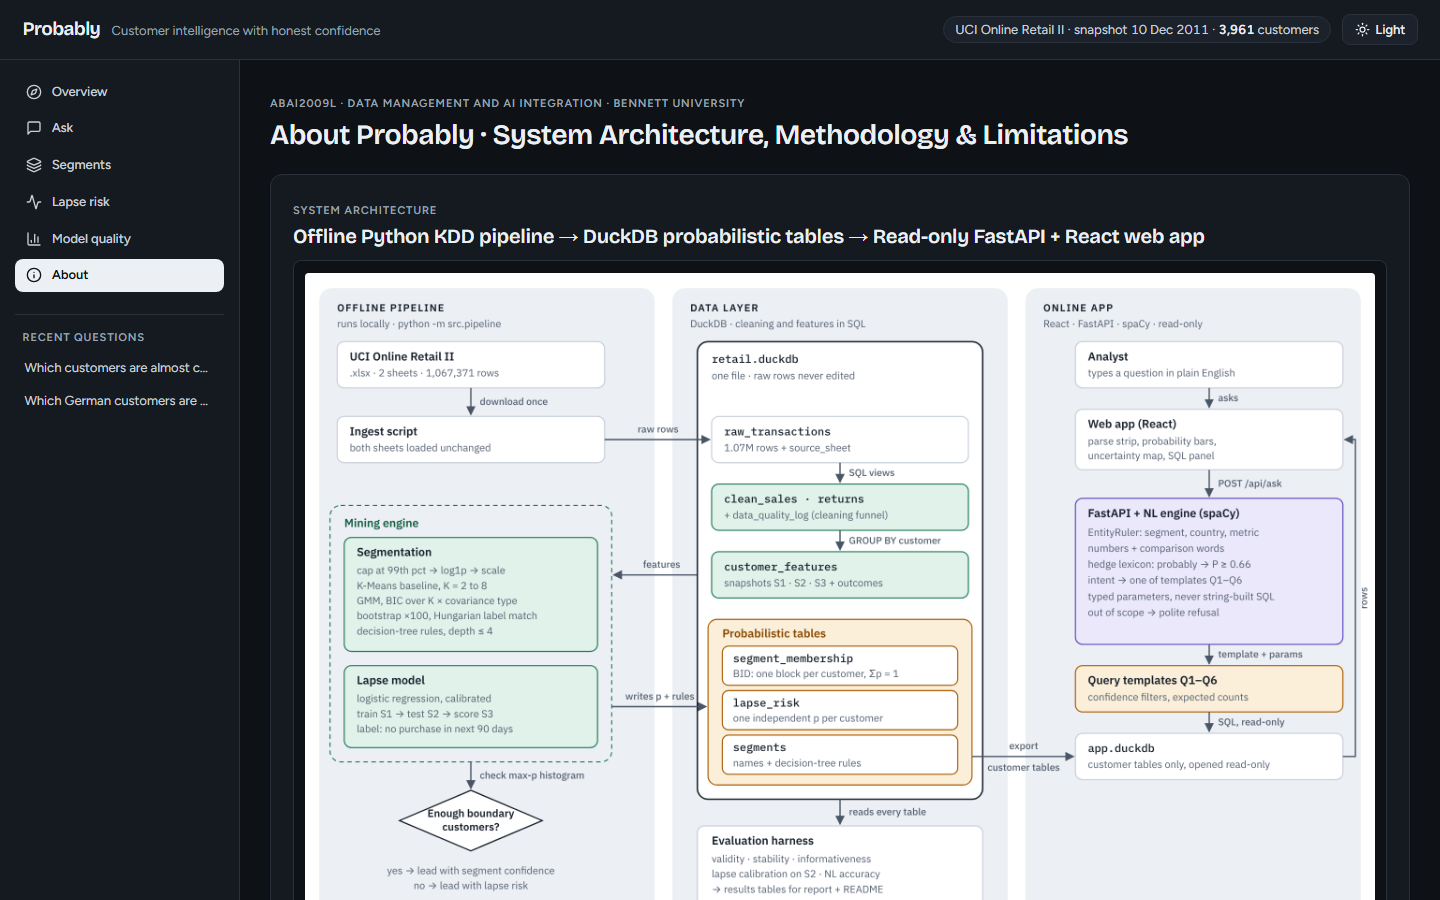
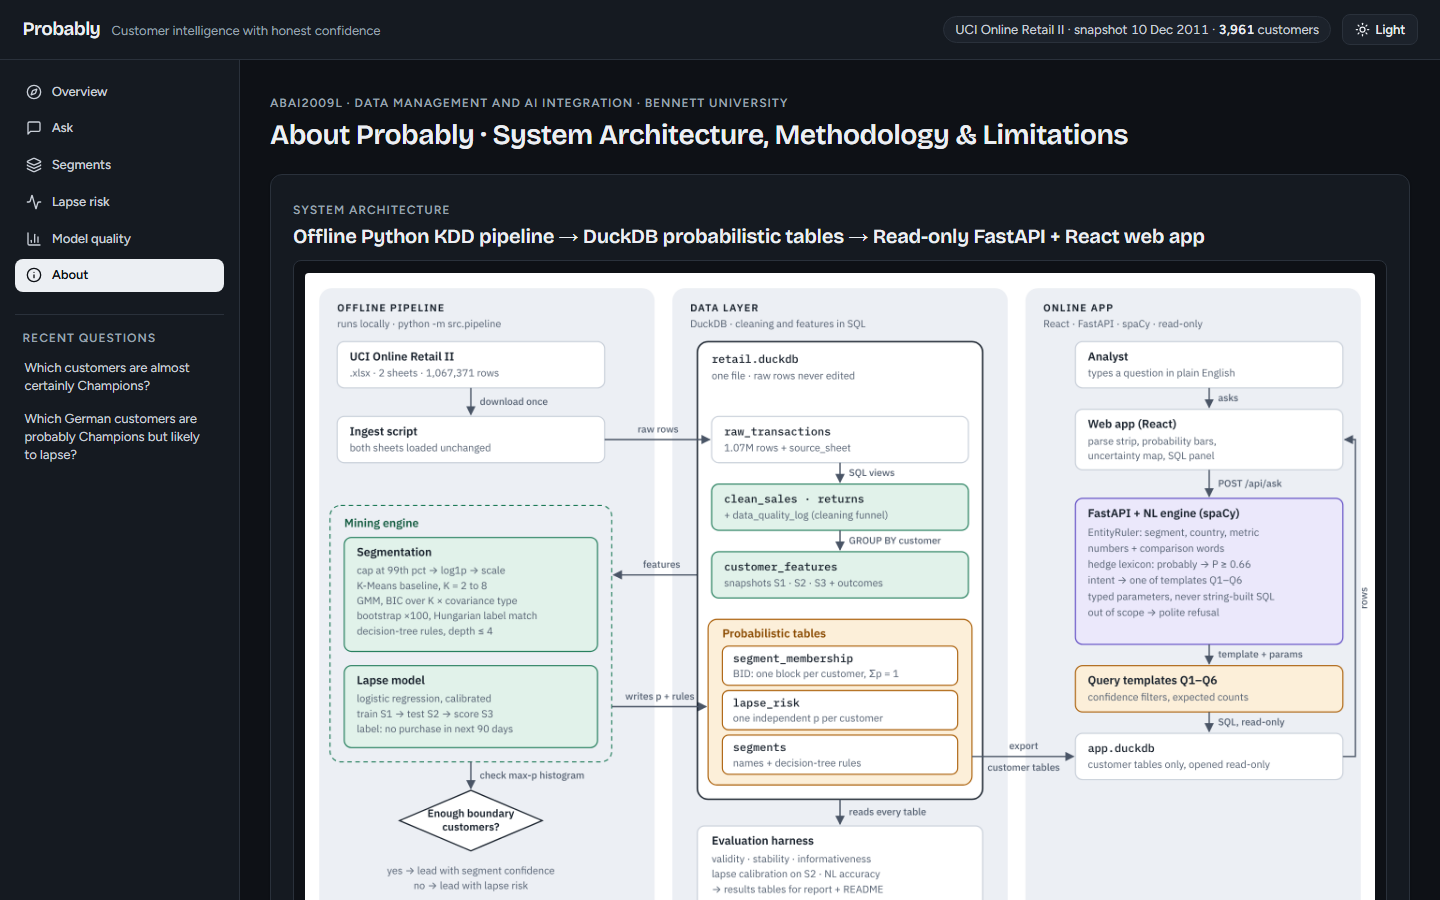
Polish P2: sqrt recency axis, self-explaining segment strip, projector type sizes
- Uncertainty map: reversed square-root recency scale with ticks 270/120/60/30/14/7/1d,
  +/-0.4-day jitter seeded by customer id (stated in the caption), smaller dots.
- Overview segment strip: "% of customers", hard vs expected bar pair on a scale shared
  across all five cards, and an API-computed line confirming expected sizes sum to the
  customer count.
- Typography floors: captions 13px (text-xs), label caps 12px, chart ticks 12px;
  sidebar recent questions wrap instead of truncating; segment-card headers and
  median tiles no longer break awkwardly.
- Screenshots recaptured (7 light, 6 dark); PROGRESS and FRONTEND_REPORT updated.

Changed region(s): [[0.0, 0.3733, 0.1562, 0.5289], [0.1875, 0.0933, 0.5312, 0.1244], [0.1875, 0.2178, 0.3125, 0.2489]]

diff --git a/web/src/pages/OverviewPage.tsx b/web/src/pages/OverviewPage.tsx
@@ -67,6 +67,20 @@ export const OverviewPage: React.FC<OverviewPageProps> = ({
     };
   }, []);
 
+  // Shared scale for the strip's mini bars: the largest hard or expected size across segments.
+  const stripScaleMax = Math.max(
+    1,
+    ...(segmentsData?.segments || []).flatMap((seg) => [seg.hard_count, seg.expected_size])
+  );
+  // Σp over all segments must equal the customer count (linearity of expectation).
+  const expectedTotal = (segmentsData?.segments || []).reduce(
+    (sum, seg) => sum + seg.expected_size,
+    0
+  );
+  const expectedSumMatches =
+    segmentsData !== null &&
+    Math.abs(expectedTotal - segmentsData.customer_count) < 0.01;
+
   const handleSubmit = (e: React.FormEvent) => {
     e.preventDefault();
     if (!askInput.trim()) return;
@@ -230,7 +244,7 @@ export const OverviewPage: React.FC<OverviewPageProps> = ({
       <section className="flex flex-col gap-3">
         <div className="flex items-center justify-between">
           <span className="label-caps">
-            S3 Segment Summary Strip · Hard Count vs Expected Size Σp (Method = GMM)
+            Segments today · hard count vs expected size Σp (GMM)
           </span>
           <button
             type="button"
@@ -253,58 +267,85 @@ export const OverviewPage: React.FC<OverviewPageProps> = ({
             ))}
           </div>
         ) : (
-          <div className="grid grid-cols-1 sm:grid-cols-2 lg:grid-cols-5 gap-4">
-            {segmentsData.segments.map((seg) => (
-              <button
-                key={seg.name}
-                type="button"
-                onClick={() => navigate("/segments")}
-                className="card-surface text-left flex flex-col justify-between gap-2 transition-smooth"
-              >
-                <div className="flex items-center justify-between">
-                  <span className="inline-flex items-center gap-2 font-display font-semibold text-base">
-                    <span
-                      className="w-2.5 h-2.5 rounded-full"
-                      style={{
-                        backgroundColor: segmentCssColor(
-                          seg.name,
-                          meta?.segments
-                        ),
-                      }}
-                    />
-                    <span>{seg.name}</span>
-                  </span>
-                  <span
-                    className="text-code text-xs"
-                    style={{ color: "var(--muted)" }}
+          <>
+            <div className="grid grid-cols-1 sm:grid-cols-2 lg:grid-cols-5 gap-4">
+              {segmentsData.segments.map((seg) => {
+                const colorVar = segmentCssColor(seg.name, meta?.segments);
+                return (
+                  <button
+                    key={seg.name}
+                    type="button"
+                    onClick={() => navigate("/segments")}
+                    className="card-surface text-left flex flex-col justify-between gap-2 transition-smooth"
                   >
-                    {seg.share_of_customers_pct.toFixed(1)}%
-                  </span>
-                </div>
-                <div className="pt-1">
-                  <div className="text-small" style={{ color: "var(--muted)" }}>
-                    Hard count:{" "}
-                    <strong
-                      className="text-code"
-                      style={{ color: "var(--ink)" }}
+                    <div className="flex items-center gap-2 font-display font-semibold text-base">
+                      <span
+                        className="w-2.5 h-2.5 rounded-full"
+                        style={{ backgroundColor: colorVar }}
+                      />
+                      <span>{seg.name}</span>
+                    </div>
+                    <div className="text-small" style={{ color: "var(--muted)" }}>
+                      {seg.share_of_customers_pct.toFixed(1)}% of customers
+                    </div>
+                    <div className="pt-1">
+                      <div className="text-small" style={{ color: "var(--muted)" }}>
+                        Hard count:{" "}
+                        <strong className="text-code" style={{ color: "var(--ink)" }}>
+                          {formatNumber(seg.hard_count)}
+                        </strong>
+                      </div>
+                      <div className="text-small" style={{ color: "var(--muted)" }}>
+                        Expected Σp:{" "}
+                        <strong className="text-code" style={{ color: "var(--ink)" }}>
+                          {formatNumber(seg.expected_size, 2)}
+                        </strong>{" "}
+                        <span className="text-xs">±{seg.std_dev.toFixed(1)}</span>
+                      </div>
+                    </div>
+                    {/* Hard vs expected bars on one scale shared by all five cards */}
+                    <div
+                      className="flex flex-col gap-1 pt-1"
+                      role="img"
+                      aria-label={`${seg.name}: hard count ${seg.hard_count}, expected size ${seg.expected_size.toFixed(2)}`}
                     >
-                      {formatNumber(seg.hard_count)}
-                    </strong>
-                  </div>
-                  <div className="text-small" style={{ color: "var(--muted)" }}>
-                    Expected Σp:{" "}
-                    <strong
-                      className="text-code"
-                      style={{ color: "var(--ink)" }}
-                    >
-                      {formatNumber(seg.expected_size, 2)}
-                    </strong>{" "}
-                    <span className="text-xs">±{seg.std_dev.toFixed(1)}</span>
-                  </div>
-                </div>
-              </button>
-            ))}
-          </div>
+                      {[
+                        { label: "Hard", value: seg.hard_count, opacity: 0.45 },
+                        { label: "Σp", value: seg.expected_size, opacity: 1 },
+                      ].map((bar) => (
+                        <div key={bar.label} className="flex items-center gap-2">
+                          <span
+                            className="text-xs w-9 shrink-0"
+                            style={{ color: "var(--muted)" }}
+                          >
+                            {bar.label}
+                          </span>
+                          <div
+                            className="flex-1 h-2 rounded-full"
+                            style={{ backgroundColor: "var(--surface-2)" }}
+                          >
+                            <div
+                              className="h-2 rounded-full"
+                              style={{
+                                width: `${(bar.value / stripScaleMax) * 100}%`,
+                                backgroundColor: colorVar,
+                                opacity: bar.opacity,
+                              }}
+                            />
+                          </div>
+                        </div>
+                      ))}
+                    </div>
+                  </button>
+                );
+              })}
+            </div>
+            <p className="text-small" style={{ color: "var(--ink-2)" }}>
+              Expected sizes sum to {formatNumber(expectedTotal)}
+              {expectedSumMatches ? ", exactly the number of customers" : ""}. Hard
+              counts round each customer to one segment; expected sizes keep the uncertainty.
+            </p>
+          </>
         )}
       </section>
 

diff --git a/web/src/charts/UncertaintyMap.tsx b/web/src/charts/UncertaintyMap.tsx
@@ -1,7 +1,10 @@
 /**
  * web/src/charts/UncertaintyMap.tsx
  * Signature component #3: 3,961-point customer uncertainty scatter map (`GET /api/segments/map`).
- * - x-axis: days since last purchase (reversed, so recent buyers are on the right)
+ * - x-axis: days since last purchase on a square-root scale (reversed, so recent buyers are on
+ *   the right). Recency is right-skewed (most customers bought recently), so a linear axis
+ *   piles them against the right edge; sqrt spreads the recent region out.
+ * - x jitter: +/-0.4 days per customer, fixed by customer id, to break up whole-day stripes
  * - y-axis: 9-month monetary spend on a log10 scale
  * - colour: segment (Okabe-Ito tokens)
  * - opacity: membership confidence `max_p` mapped to alpha in [0.35, 0.95]
@@ -24,6 +27,21 @@ interface UncertaintyMapProps {
   onSelectCustomer: (customerId: number) => void;
   segmentsMeta?: SegmentColorInfo[];
   theme: "light" | "dark";
+}
+
+// Half-width of the horizontal jitter, in days. Recency is a whole number of days, which
+// draws vertical stripes; a small, fixed offset per customer breaks them up.
+const JITTER_DAYS = 0.4;
+
+/** Stable pseudo-random number in [0, 1) derived from the customer id (same on every render). */
+function seededUnit(id: number): number {
+  // Knuth multiplicative hash; Math.imul keeps the product in 32-bit integer arithmetic.
+  return (Math.imul(id, 2654435761) >>> 0) / 4294967296;
+}
+
+/** Map recency (days) to [0, 1] across the plot, square-root scaled and reversed. */
+function recencyToXNorm(days: number, maxDays: number): number {
+  return 1 - Math.sqrt(Math.max(0, days) / maxDays);
 }
 
 interface ProjectedPoint {
@@ -96,8 +114,9 @@ export const UncertaintyMap: React.FC<UncertaintyMapProps> = ({
       if (filterSegment && pt.segment !== filterSegment) continue;
       if (onlyBoundary && pt.max_p >= 0.6) continue;
 
-      // Reversed X: 275 days on left (0), 0 days on right (plotW)
-      const xNorm = (maxR - pt.recency_days) / maxR;
+      // Reversed sqrt X: oldest on the left, 0 days on the right; jitter is display-only
+      const jitteredDays = pt.recency_days + (seededUnit(pt.id) * 2 - 1) * JITTER_DAYS;
+      const xNorm = recencyToXNorm(jitteredDays, maxR);
       const logM = Math.log10(Math.max(10, pt.monetary));
       const yNorm = (logM - minL) / (maxL - minL);
 
@@ -133,7 +152,7 @@ export const UncertaintyMap: React.FC<UncertaintyMapProps> = ({
     ctx.strokeStyle = colorMap.line;
     ctx.fillStyle = colorMap.muted;
     ctx.lineWidth = 1;
-    ctx.font = "11px 'JetBrains Mono', monospace";
+    ctx.font = "12px 'JetBrains Mono', monospace";
 
     // Y-axis ticks (£10, £100, £1k, £10k, £100k)
     const yTicks = [10, 100, 1000, 10000, 100000];
@@ -153,10 +172,10 @@ export const UncertaintyMap: React.FC<UncertaintyMapProps> = ({
       ctx.fillText(label, pad.left - 8, y);
     }
 
-    // X-axis ticks (reversed recency: 270d -> 0d)
-    const xTicks = [270, 210, 150, 90, 30, 1];
+    // X-axis ticks chosen to sit evenly on the square-root scale
+    const xTicks = [270, 120, 60, 30, 14, 7, 1];
     for (const days of xTicks) {
-      const xNorm = (maxRecency - days) / maxRecency;
+      const xNorm = recencyToXNorm(days, maxRecency);
       const x = pad.left + xNorm * plotW;
       ctx.beginPath();
       ctx.moveTo(x, pad.top);
@@ -169,7 +188,7 @@ export const UncertaintyMap: React.FC<UncertaintyMapProps> = ({
     }
 
     // Axis titles
-    ctx.font = "12px 'Figtree', sans-serif";
+    ctx.font = "13px 'Figtree', sans-serif";
     ctx.fillStyle = colorMap.muted;
     ctx.textAlign = "center";
     ctx.fillText(
@@ -190,7 +209,7 @@ export const UncertaintyMap: React.FC<UncertaintyMapProps> = ({
       const { px, py, raw } = item;
       const alpha = Math.max(0.35, Math.min(0.95, 0.35 + ((raw.max_p - 0.2) / 0.8) * 0.6));
       ctx.beginPath();
-      ctx.arc(px, py, raw.max_p < 0.6 ? 3.6 : 3.2, 0, Math.PI * 2);
+      ctx.arc(px, py, raw.max_p < 0.6 ? 3.2 : 2.8, 0, Math.PI * 2);
       ctx.fillStyle = colorMap[raw.segment] || colorMap.ink;
       ctx.globalAlpha = alpha;
       ctx.fill();
@@ -314,7 +333,7 @@ export const UncertaintyMap: React.FC<UncertaintyMapProps> = ({
           })}
         </div>
         <span className="text-small italic" style={{ color: "var(--muted)" }}>
-          Faded dots are customers between segments. Click any dot to inspect.
+          Faded dots are customers between segments. Recency on a square-root scale, jittered ±0.4 days. Click any dot to inspect.
         </span>
       </div>
 

diff --git a/web/src/pages/SegmentsPage.tsx b/web/src/pages/SegmentsPage.tsx
@@ -167,7 +167,7 @@ export const SegmentsPage: React.FC<SegmentsPageProps> = ({
                   className="card-surface flex flex-col justify-between gap-4"
                 >
                   <div>
-                    <div className="flex items-center justify-between">
+                    <div className="flex flex-wrap items-center justify-between gap-x-3 gap-y-1">
                       <div className="inline-flex items-center gap-2">
                         <span
                           className="w-3 h-3 rounded-full"
@@ -176,7 +176,7 @@ export const SegmentsPage: React.FC<SegmentsPageProps> = ({
                         <h2 className="text-h2">{seg.name}</h2>
                       </div>
                       <span
-                        className="text-code text-xs px-2 py-0.5 rounded-full"
+                        className="text-code text-xs px-2 py-0.5 rounded-full whitespace-nowrap"
                         style={{
                           backgroundColor: "var(--surface-2)",
                           color: "var(--ink-2)",
@@ -228,12 +228,13 @@ export const SegmentsPage: React.FC<SegmentsPageProps> = ({
                     </div>
 
                     {/* Median R / F / M */}
-                    <div className="grid grid-cols-3 gap-2 mt-3 text-center">
+                    <div className="text-xs mt-3" style={{ color: "var(--muted)" }}>Median per customer</div>
+                    <div className="grid grid-cols-3 gap-2 mt-1 text-center">
                       <div
                         className="p-2 rounded"
                         style={{ backgroundColor: "var(--surface-2)" }}
                       >
-                        <div className="label-caps">Med Recency</div>
+                        <div className="label-caps">Recency</div>
                         <div className="text-code font-semibold mt-0.5">
                           {seg.median_recency_days}d
                         </div>
@@ -242,7 +243,7 @@ export const SegmentsPage: React.FC<SegmentsPageProps> = ({
                         className="p-2 rounded"
                         style={{ backgroundColor: "var(--surface-2)" }}
                       >
-                        <div className="label-caps">Med Orders</div>
+                        <div className="label-caps">Orders</div>
                         <div className="text-code font-semibold mt-0.5">
                           {seg.median_frequency}
                         </div>
@@ -251,7 +252,7 @@ export const SegmentsPage: React.FC<SegmentsPageProps> = ({
                         className="p-2 rounded"
                         style={{ backgroundColor: "var(--surface-2)" }}
                       >
-                        <div className="label-caps">Med Spend</div>
+                        <div className="label-caps">Spend</div>
                         <div className="text-code font-semibold mt-0.5">
                           {formatCurrency(seg.median_monetary)}
                         </div>

diff --git a/web/src/pages/QualityPage.tsx b/web/src/pages/QualityPage.tsx
@@ -288,7 +288,7 @@ export const QualityPage: React.FC<QualityPageProps> = ({ meta }) => {
                     <CartesianGrid strokeDasharray="3 3" stroke="var(--line)" />
                     <XAxis
                       dataKey="bin"
-                      tick={{ fill: "var(--muted)", fontSize: 11 }}
+                      tick={{ fill: "var(--muted)", fontSize: 12 }}
                     />
                     <YAxis
                       tick={{ fill: "var(--muted)", fontSize: 12 }}
@@ -366,7 +366,7 @@ export const QualityPage: React.FC<QualityPageProps> = ({ meta }) => {
                         value: "Stable ≥ 0.75",
                         position: "top",
                         fill: "var(--ink)",
-                        fontSize: 11,
+                        fontSize: 12,
                       }}
                     />
                     <Bar dataKey="jaccard" radius={[0, 4, 4, 0]}>

diff --git a/web/src/components/Layout.tsx b/web/src/components/Layout.tsx
@@ -162,7 +162,7 @@ export const Layout: React.FC<LayoutProps> = ({
                           onSelectRecentQuestion(q);
                           navigate("/ask");
                         }}
-                        className="w-full text-left px-2.5 py-1.5 rounded text-small truncate transition-smooth"
+                        className="w-full text-left px-2.5 py-1.5 rounded text-small transition-smooth"
                         style={{ color: "var(--ink-2)" }}
                         title={q}
                       >

diff --git a/web/tailwind.config.js b/web/tailwind.config.js
@@ -13,6 +13,10 @@ export default {
         line: "var(--line)",
         focus: "var(--focus)",
       },
+      // Projector floor: Tailwind's text-xs (12px) is used for captions, so raise it to 13px.
+      fontSize: {
+        xs: ["13px", "18px"],
+      },
       fontFamily: {
         display: ["'Bricolage Grotesque'", "sans-serif"],
         sans: ["'Figtree'", "sans-serif"],

diff --git a/web/src/styles/tokens.css b/web/src/styles/tokens.css
@@ -130,7 +130,7 @@ body {
 
 .label-caps {
   font-family: "Figtree", sans-serif;
-  font-size: 11px;
+  font-size: 12px;
   line-height: 16px;
   font-weight: 600;
   text-transform: uppercase;

diff --git a/docs/FRONTEND_REPORT.md b/docs/FRONTEND_REPORT.md
@@ -83,7 +83,7 @@ The application is structured into six pages accessible via the persistent sideb
    - **Headline finding:** leads with calibrated 90-day lapse risk (*"When we say a customer is 70% likely to lapse, about that share really do"*), one plain-English sentence with the held-out customer count from the API, and four metric pills (Brier skill score, Brier score, ROC-AUC, 10-bin ECE).
    - **Full-width reliability diagram** stacked below the headline: labelled axes, a "perfect calibration" diagonal label, dots sized by bin count (count on hover), and a caption computed from the bins that states how the highest non-empty bin compares with the diagonal and how many customers it holds.
    - **Command bar:** 56px input with 6 quick-launch example chips.
-   - **Segment summary strip:** 5 cards showing hard counts vs probabilistic expected sizes ($\sum p$) with standard deviations.
+   - **Segment summary strip:** 5 cards showing share of customers, hard counts vs probabilistic expected sizes ($\sum p$) with standard deviations, and a hard-vs-Σp bar pair on a scale shared by all five cards, followed by a sentence (computed from the API) confirming the expected sizes sum to the customer count.
 2. **Ask (`/ask`):**
    - Natural language query interface with `/` keyboard shortcut to focus.
    - Large human-readable interpretation sentence (e.g., *"Showing customers with P(Champions) ≥ 0.95 ('almost certainly') (method = 'gmm')*").
@@ -93,7 +93,8 @@ The application is structured into six pages accessible via the persistent sideb
    - Companion distribution chart for the result set.
    - Collapsible SQL drawer displaying the parameterised query, bound parameters table, and copy button.
 3. **Segments (`/segments`):**
-   - Full-width interactive `UncertaintyMap` of all 3,961 customers.
+   - Boundary share and mean normalised entropy as two stat tiles beside a `K = 5 · provisional` title pill.
+   - Full-width interactive `UncertaintyMap` of all 3,961 customers, with recency on a reversed square-root scale and ±0.4-day seeded jitter.
    - Five segment profile cards in original units (median recency, frequency, monetary spend, surrogate tree rule, and 10-bin confidence mini-histogram).
    - Bar chart comparing K-Means hard counts, GMM hard counts, and probabilistic expected sizes.
 4. **90-Day Lapse Risk (`/lapse`):**

diff --git a/docs/PROGRESS.md b/docs/PROGRESS.md
@@ -230,3 +230,10 @@
 - **Screenshots:** recaptured over the Chrome DevTools protocol with real-time waits, which fixes the blank Recharts plots in the earlier Lapse and Segments captures.
 - `pytest`: 56 passed. `npm run build`: no TypeScript errors.
 
+### P2: chart and layout quality (done)
+- **Uncertainty map:** recency axis on a square-root scale (reversed, recent on the right), ticks at 270, 120, 60, 30, 14, 7 and 1 days. Square root was chosen over log after measuring axis occupancy on the S3 points: no fifth of the axis holds more than 33% of customers under either, but log squeezes the long Hibernating tail into 6% of the width. Horizontal jitter of ±0.4 days, fixed per customer by a hash of the customer id, breaks up whole-day stripes; the caption says so. Dot radius reduced (3.2/2.8px from 3.6/3.2px).
+- **Overview segment strip:** each card says "% of customers" and has a Hard vs Σp bar pair drawn on one scale shared by all five cards. A line under the strip, computed from `/api/segments`, reads "Expected sizes sum to 3,961, exactly the number of customers…"; the word "exactly" appears only if the sum matches the customer count to within 0.01.
+- **Typography:** Tailwind `text-xs` raised from 12px to 13px (captions), label caps from 11px to 12px, uncertainty-map ticks from 11px to 12px, Quality-page chart ticks from 11px to 12px. Sidebar recent questions now wrap in full instead of being cut off with an ellipsis. Segment-card headers wrap their Jaccard/AvePP pill onto a new line instead of squeezing, and the median tiles read "Recency / Orders / Spend" under a "Median per customer" caption so the labels no longer break mid-phrase.
+- Screenshots recaptured at 1440×900: 7 light (including the customer drawer) and 6 dark.
+- `pytest`: 56 passed. `npm run build`: no TypeScript errors. `/api/health` returned `{"status":"ok"}`.
+
